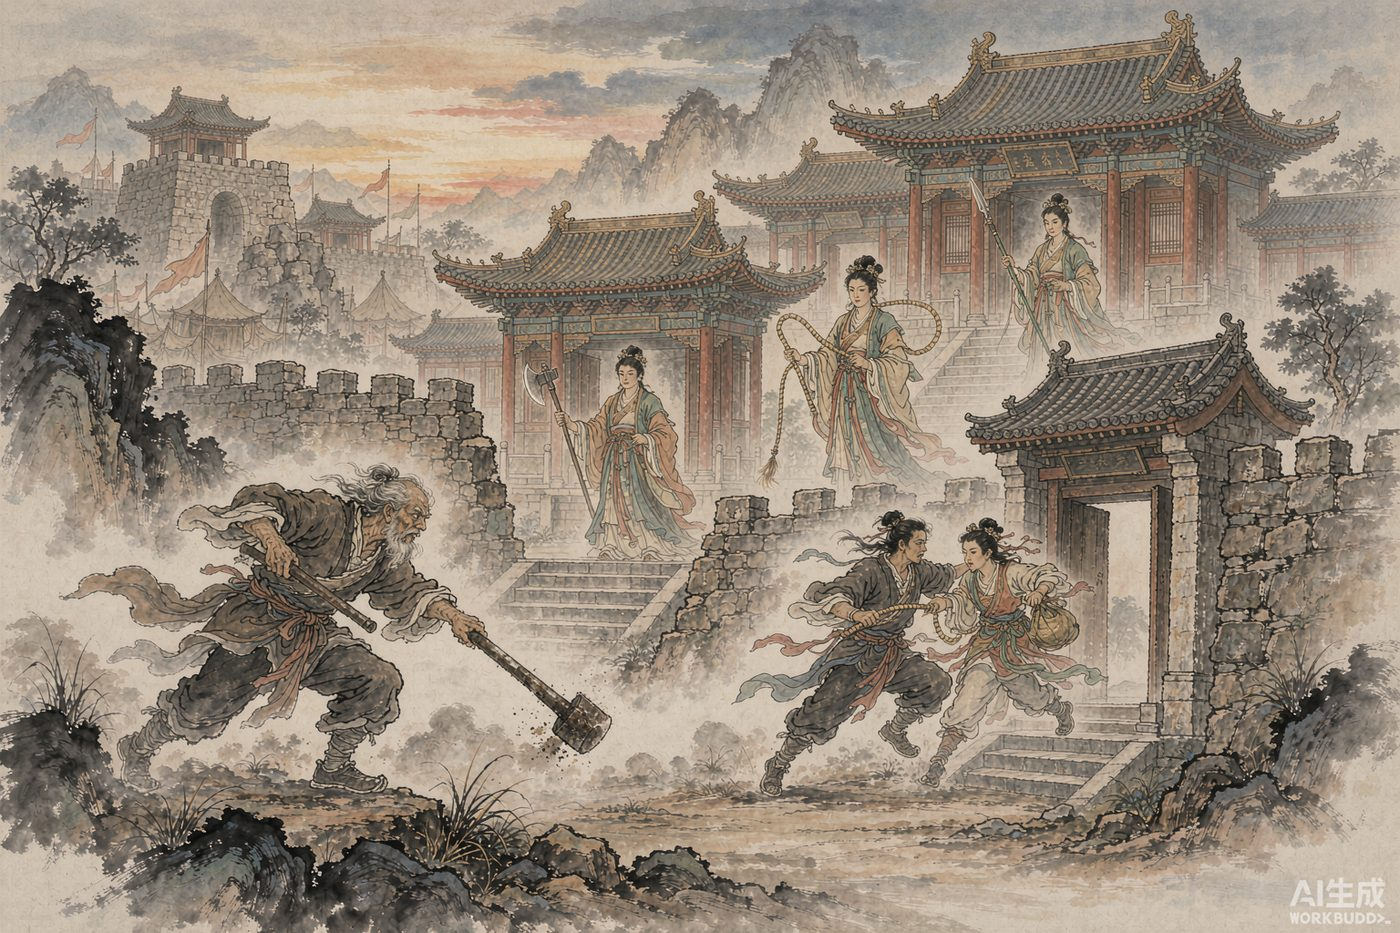
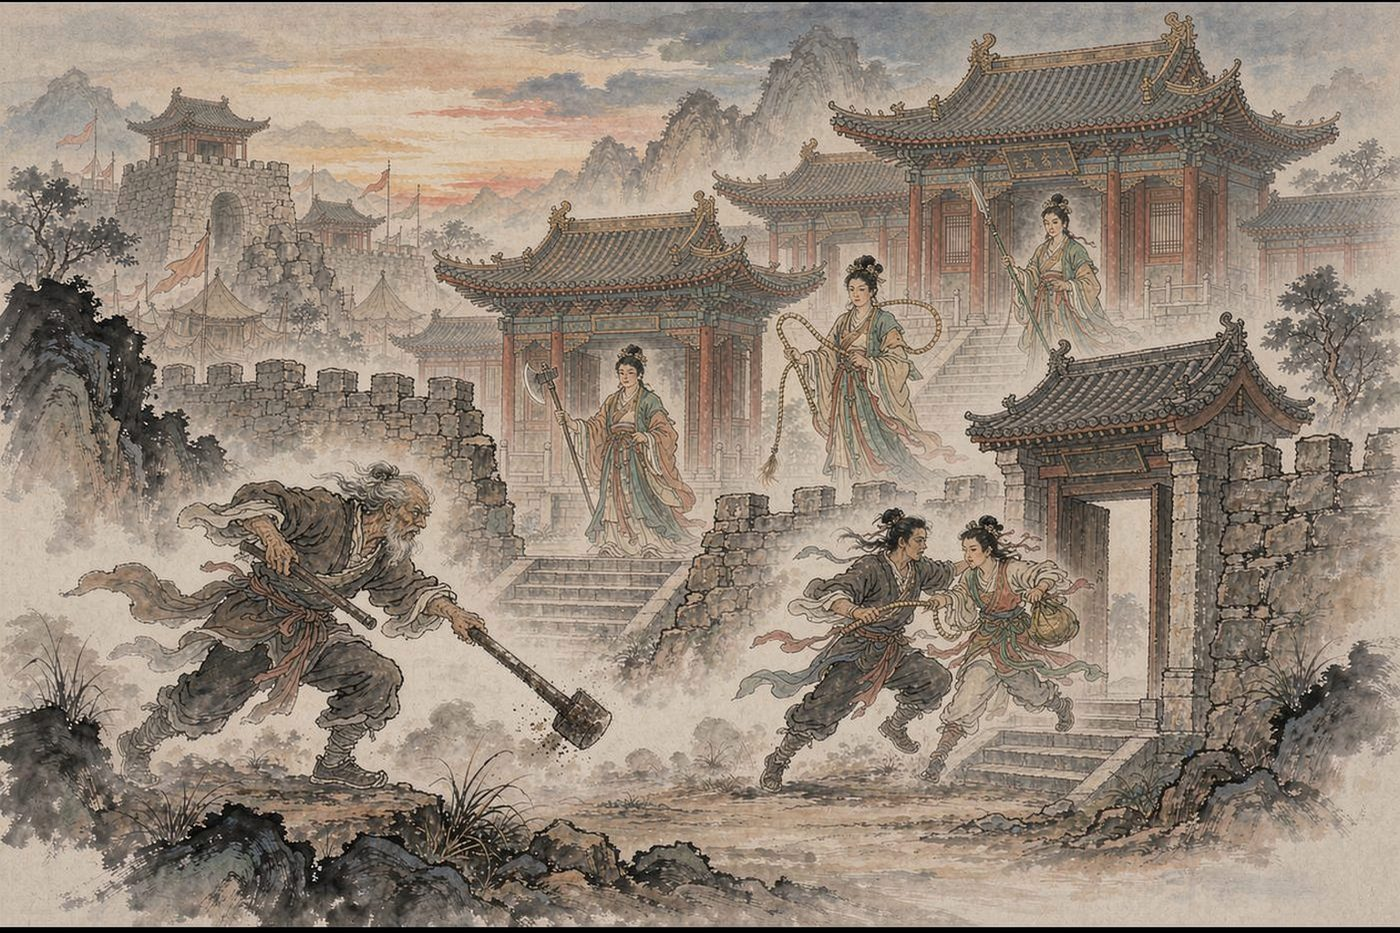
Erase watermarks from the twelve batch-14 illustrations
First batch to follow the erase policy. One image timed out mid-run and
was retried singly; all cloud-returned images were re-compressed back
to 1400x933 q82 (the erase API returns 1.7-2.5 MB output). All 12 are
now watermark-free at ~250-330 KB.

diff --git a/tools/_wm_batch14.py b/tools/_wm_batch14.py
@@ -1,0 +1,37 @@
+# -*- coding: utf-8 -*-
+"""Erase the platform watermark from the 12 batch-14 images only."""
+import subprocess, re, os, sys
+
+PY = r'C:/Users/33529/.workbuddy/binaries/python/versions/3.13.12/python.exe'
+BUDDY = r'D:/workbuddy/resources/app.asar.unpacked/resources/plugins/workbuddy-builtin/skills/buddy-image-processing/scripts/buddy-image-processing.py'
+PROMPT = 'Remove the AI watermark text in the bottom-right corner'
+TOKEN = sys.argv[1]
+
+SLUGS = ['insect-writing', 'the-farewell-feast', 'the-mirror-that-showed-his-gall',
+         'the-son-who-cost-a-fortune', 'the-wine-that-was-not-wine',
+         'the-osmanthus-with-no-scent', 'the-turtle-who-taught-a-fortune-teller',
+         'the-ants-patent-of-nobility', 'the-otters-offering', 'thorn-country',
+         'the-tomb-called-gratitude', 'the-bride-who-cast-her-coat']
+
+ok = 0
+for slug in SLUGS:
+    img = 'public/images/stories/%s.jpg' % slug
+    if not os.path.exists(img):
+        print('MISSING', slug, flush=True); continue
+    tmp = img + '.wm.jpg'
+    cmd = [PY, BUDDY, 'image-edit', '--operation', 'erase', '--image-file',
+           os.path.abspath(img), '--prompt', PROMPT, '--token', TOKEN]
+    try:
+        r = subprocess.run(cmd, capture_output=True, text=True, timeout=170)
+    except subprocess.TimeoutExpired:
+        print('TIMEOUT', slug, flush=True); continue
+    out = (r.stdout or '') + (r.stderr or '')
+    m = re.search(r'"path"\s*:\s*"(.*?)"', out)
+    path = m.group(1).replace('\\\\', '\\') if m else None
+    if path and os.path.exists(path):
+        os.replace(path, img)
+        print('OK %-38s %d KB' % (slug, os.path.getsize(img) // 1024), flush=True)
+        ok += 1
+    else:
+        print('FAIL %-36s %s' % (slug, (out[:160].replace('\n', ' ') or 'rc=%s' % r.returncode)), flush=True)
+print('DONE %d/%d' % (ok, len(SLUGS)))

diff --git a/tools/_recompress14.py b/tools/_recompress14.py
@@ -1,0 +1,23 @@
+# -*- coding: utf-8 -*-
+"""Re-compress the batch-14 images after cloud watermark erase (cloud returns
+uncompressed output, sometimes >1 MB)."""
+import os
+from PIL import Image
+
+SLUGS = ['insect-writing', 'the-farewell-feast', 'the-mirror-that-showed-his-gall',
+         'the-son-who-cost-a-fortune', 'the-wine-that-was-not-wine',
+         'the-osmanthus-with-no-scent', 'the-turtle-who-taught-a-fortune-teller',
+         'the-ants-patent-of-nobility', 'the-otters-offering', 'thorn-country',
+         'the-tomb-called-gratitude', 'the-bride-who-cast-her-coat']
+
+for s in SLUGS:
+    p = 'public/images/stories/%s.jpg' % s
+    if not os.path.exists(p):
+        print('MISSING', s); continue
+    before = os.path.getsize(p) // 1024
+    im = Image.open(p)
+    im = im.convert('RGB')
+    if im.size != (1400, 933):
+        im = im.resize((1400, 933), Image.LANCZOS)
+    im.save(p, 'JPEG', quality=82, progressive=True, optimize=True)
+    print('%-38s %6d KB -> %4d KB' % (s, before, os.path.getsize(p) // 1024))

diff --git a/tools/_wm_one.py b/tools/_wm_one.py
@@ -1,0 +1,17 @@
+# -*- coding: utf-8 -*-
+import subprocess, re, os, sys
+PY = r'C:/Users/33529/.workbuddy/binaries/python/versions/3.13.12/python.exe'
+BUDDY = r'D:/workbuddy/resources/app.asar.unpacked/resources/plugins/workbuddy-builtin/skills/buddy-image-processing/scripts/buddy-image-processing.py'
+img = 'public/images/stories/%s.jpg' % sys.argv[1]
+token = sys.argv[2]
+cmd = [PY, BUDDY, 'image-edit', '--operation', 'erase', '--image-file',
+       os.path.abspath(img), '--prompt', 'Remove the AI watermark text in the bottom-right corner',
+       '--token', token]
+r = subprocess.run(cmd, capture_output=True, text=True, timeout=170)
+out = (r.stdout or '') + (r.stderr or '')
+m = re.search(r'"path"\s*:\s*"(.*?)"', out)
+p = m.group(1).replace('\\\\', '\\') if m else None
+if p and os.path.exists(p):
+    os.replace(p, img); print('OK', img, os.path.getsize(img)//1024, 'KB')
+else:
+    print('FAIL', out[:200].replace('\n', ' '))
